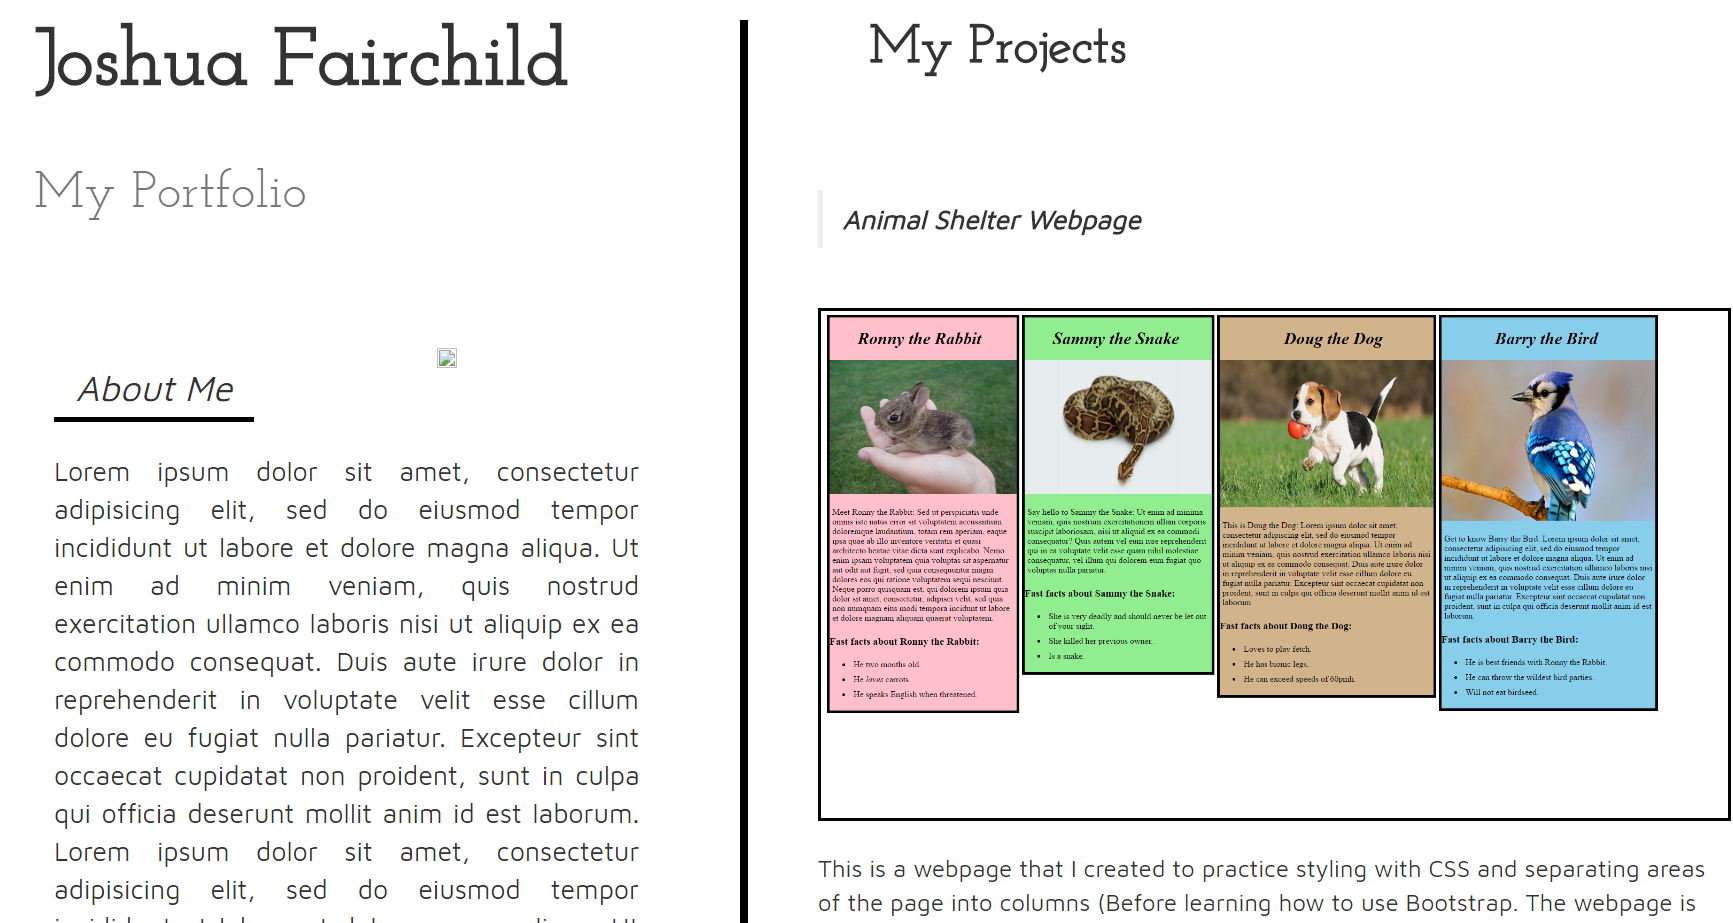
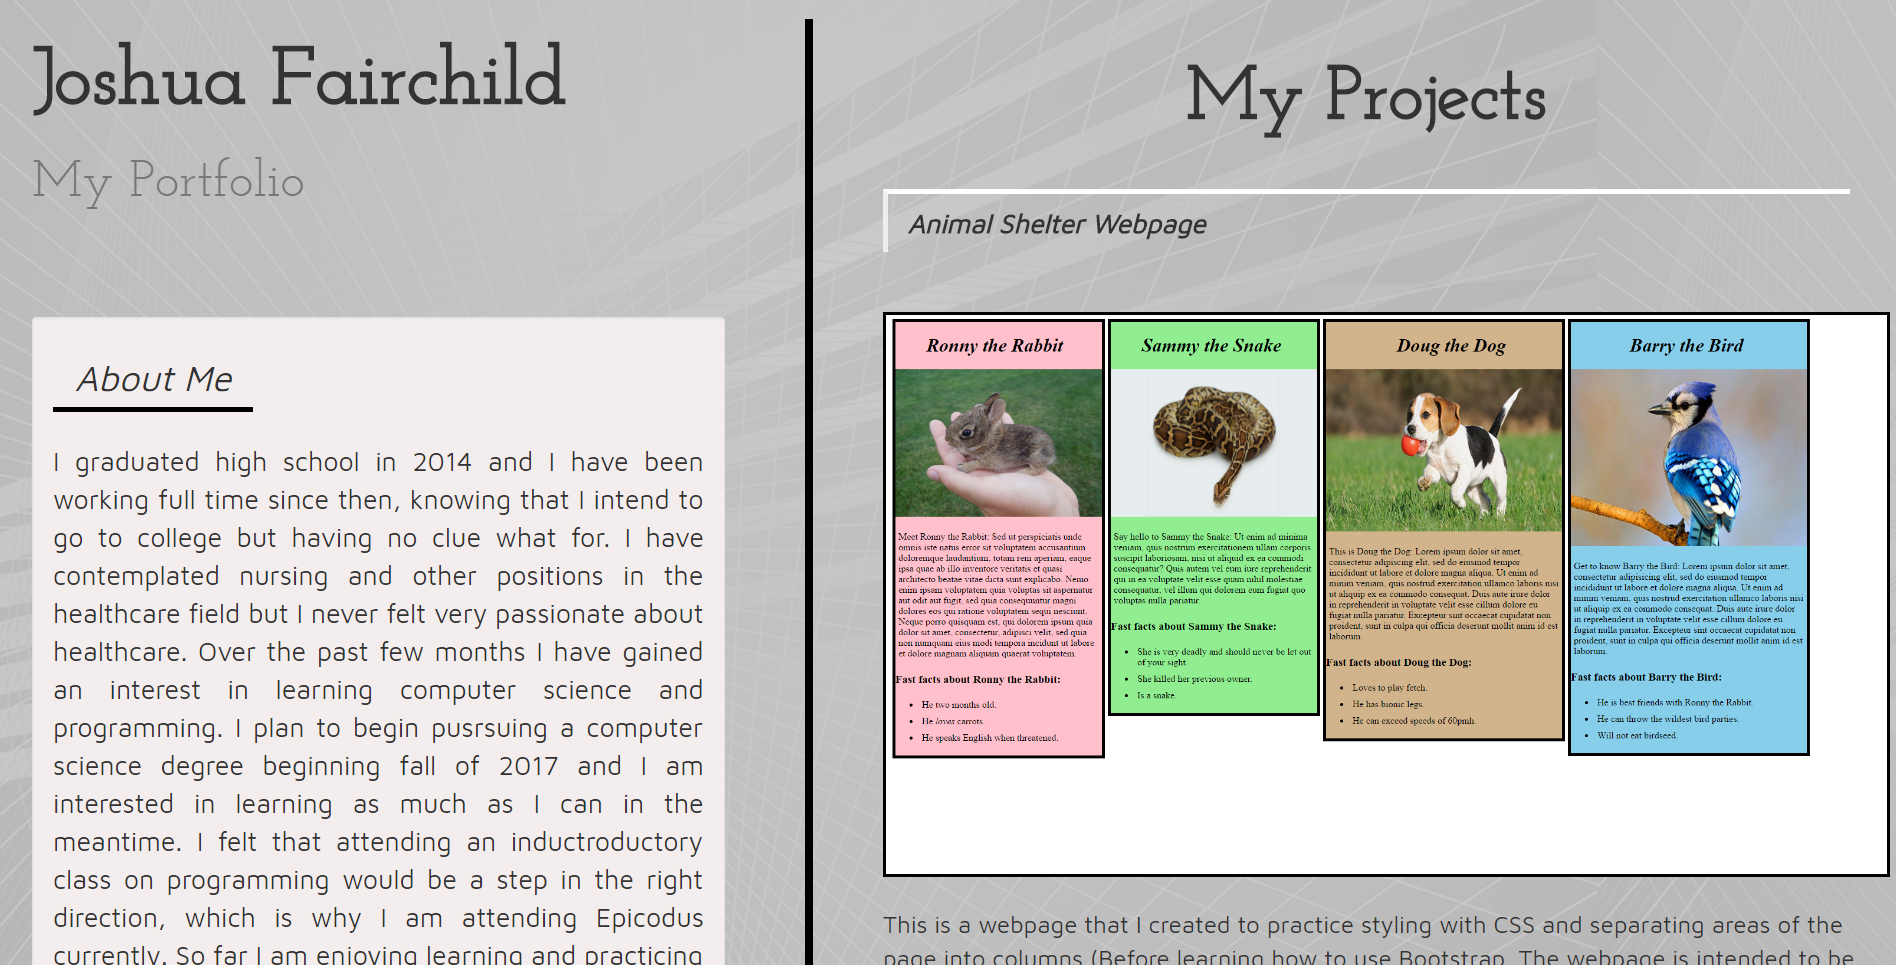
add a background images and more styling changes

diff --git a/index.html b/index.html
@@ -8,24 +8,34 @@
     <title>My Portfolio</title>
   </head>
   <body>
-
     <div class="container-fluid">
       <div class="row">
         <div class="col-sm-5">
           <div class="left-side">
             <div class="name">
-              <h1 id="name-heading">Joshua Fairchild<h1>
+              <h1 id="name-heading">Joshua Fairchild</h1>
               <h1>
                 <small class="text-muted">My Portfolio</small>
               </h1>
             </div>
-            <div class="about-me">
+            <div class="about-me well">
               <div id="about-me-heading">
                 <h1>About Me</h1>
               </div>
-              <img src="#" alt="">
               <p>I graduated high school in 2014 and I have been working full time since then, knowing that I intend to go to college but having no clue what for. I have contemplated nursing and other positions in the healthcare field but I never felt very passionate about healthcare. Over the past few months I have gained an interest in learning computer science and programming. I plan to begin pusrsuing a computer science degree beginning fall of 2017 and I am interested in learning as much as I can in the meantime. I felt that attending an inductroductory class on programming would be a step in the right direction, which is why I am attending Epicodus currently. So far I am enjoying learning and practicing as much as I can, and I am eager to watch my abilities develop over time.</p>
-              <p class="about-me-p2">I currently work full-time as a caregiver which I enjoy very much, and I spend a lot of time working overtime shifts. During my time off I enjoy bicycling, reading about personal development, traveling (when I can) and learning about programming.</p>
+              <p class="about-me-p2">I currently work full-time as a caregiver which I enjoy very much, and I spend a lot of my time working overtime shifts. Some of my hobbies include:</p>
+              <ul class="hobbies-list">
+                <li>Bicycling</li>
+                <li>Reading on personal development</li>
+                <li>Traveling (when I can)</li>
+                <li>Learning programming</li>
+              </ul>
+              <img src="img/bike.jpg" alt="A red road bicycle">
+              <p>
+                <blockquote id="caption">
+                  <strong><em>My current bicycle.</em></strong>
+                </blockquote>
+              </p>
             </div>
           </div>
         </div>
@@ -99,9 +109,9 @@
                   <em>Portfolio Landing Page</em>
                 </blockquote>
               </p>
-              <a href="https://github.com/joshuafairchild1/portfolio-landing-page" target="_blank">
+              <a href="https://joshuafairchild1.github.io/portfolio-landing-page" target="_blank">
                 <img id="landing" src="img/landing.png" alt="Portfolio webpage">
-              </a>                 <!--update this image-->
+              </a>
               <p class="description">This is a webpage that I created to act as my portfolio, it provides some information about myself as well as showcasing several projects of mine. It integrates essentailly all that I have learned up until this point about how to use HTML, CSS and Bootstrap. The webpage is divided up into two columns, the left side focusing on myself and the right side focusing on my projects (including screenshots, descriptions, and links).</p>
               <p class="description">
                 This project was created using HTML and CSS.</p>
@@ -111,7 +121,7 @@
                 </a>
               </p>
               <p class="description">
-                <a href="#" target="_blank">           <!-- FINISH THIS LINK-->
+                <a href="https://joshuafairchild1.github.io/portfolio-landing-page" target="_blank">
                   GitHub Pages
                 </a>
               </p>

diff --git a/css/styles.css b/css/styles.css
@@ -1,3 +1,9 @@
+body {
+  background: url('../img/background.png');
+  background-attachment: fixed;
+  margin-bottom: 50px;
+}
+
 .row {
   width: auto;
 }
@@ -15,6 +21,7 @@
 
 .name {
   float: left;
+  width: 100%;
 }
 
 .name h1 {
@@ -24,6 +31,14 @@
   font-weight: bolder;
   float: left;
   clear: both;
+}
+
+#name-heading {
+  margin-top: 40px;
+}
+
+#my-portfolio {
+  margin-top: 60px;
 }
 
 .name small {
@@ -56,6 +71,11 @@
   font-size: 20pt;
 }
 
+.about-me img {
+  width: 100%;
+  margin-top: 25px;
+}
+
 .about-me-p2 {
   margin-top: 35px;
 }
@@ -66,11 +86,12 @@
 
 .my-projects h1 {
   text-align: center;
-  width: 400px;
-  padding-top: 60px;
+  width: 100%;
+  height: 75%;
+  padding-top: 40px;
   font-family: Josefin Slab, arial;
   font-weight: bolder;
-  font-size: 40pt
+  font-size: 56pt
 }
 
 .project img {
@@ -85,6 +106,7 @@
   font-size: 20pt;
   font-family: maven pro, arial;
   font-weight: bold;
+  border-top: solid 5px white;
 }
 
 .description {
@@ -103,4 +125,24 @@
 
 #landing {
   border: 3px black solid;
+}
+
+.hobbies-list {
+  float: left;
+  clear: both;
+  font-size: 20pt;
+  font-family: maven pro, arial;
+  text-align: left;
+}
+
+#caption {
+  font-size: 18pt;
+  text-align: left;
+  margin-top: 28px;
+  padding-left: 40px;
+  border-bottom: 5px white solid;
+}
+
+.well {
+  background-color: #f4eded;
 }
